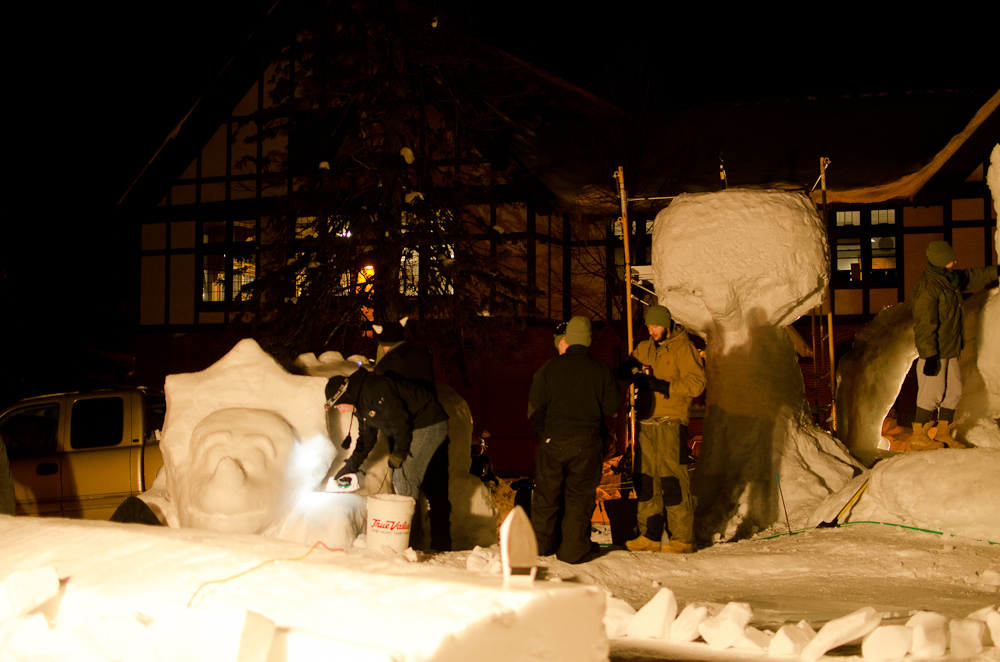
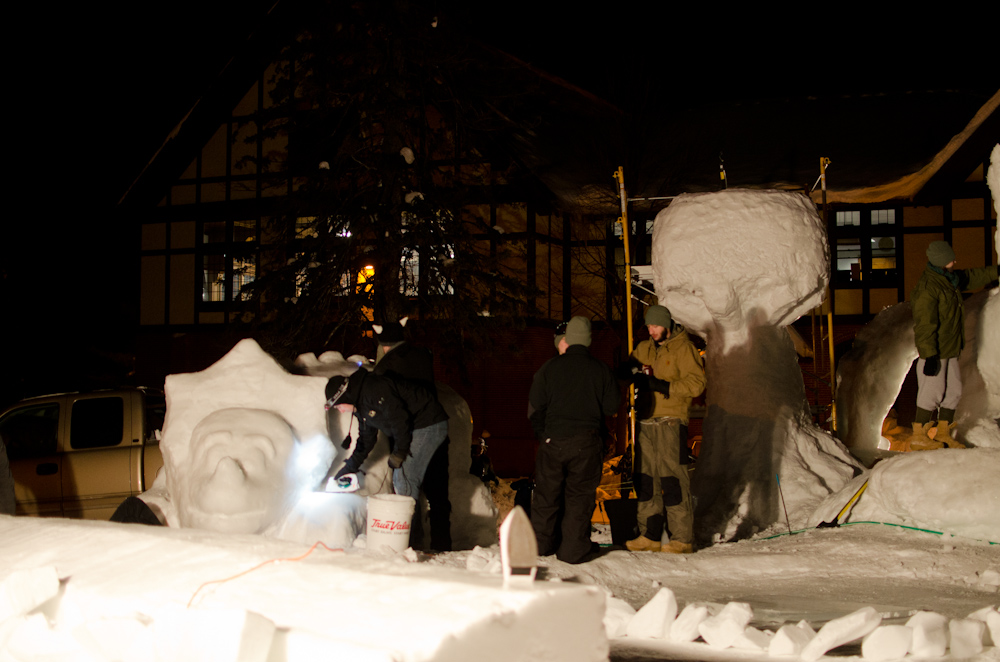
White balance fixed

diff --git a/_site/index.html b/_site/index.html
@@ -38,13 +38,29 @@
   <ul class="post">
     
       <li>
+      	<h2><a href="/2014/02/14/winter-carnival-2014/">Winter Carnival 2014</a></h2>
+      	<p class="meta">February 14, 2014 | <a href="/2014/02/14/winter-carnival-2014/#disqus_thread"></a></p>
+      	<p><img src="http://eoisaacs.github.io/images/2014-02-14-img1.jpg" alt=""></p>
+
+<p><a href="http://www.mtu.edu/carnival/history/">Winter Carnival</a> is legendary at Michigan Tech. Classes are cancelled on Thursday and Friday, and that combined with the all-nighter on Wednesday night and the snow statue contest makes for a crazy four-day weekend.</p>
+
+<p><img src="http://eoisaacs.github.io/images/2014-02-14-img2.jpg" alt=""></p>
+
+<p>Leading up to the all-nighter, I heard a lot of wild stories and rumors of drunken masses and hospitalizations. I had low expectations, but these tales turned out to be pretty accurate. The night started off pretty tame, with mostly statue workers and school employees on campus, but as it got later, campus slowly became saturated with students of varying levels of intoxication. </p>
+
+<p><img src="http://eoisaacs.github.io/images/2014-02-14-img3.jpg" alt=""></p>
+
+      	<p class="end-post">&sect;</p>
+      </li>
+    
+      <li>
       	<h2><a href="/2013/08/23/flown-and-gone/">Flown and Gone</a></h2>
       	<p class="meta">August 23, 2013 | <a href="/2013/08/23/flown-and-gone/#disqus_thread"></a></p>
       	<p>After many bittersweet goodbyes to friends and favorite places, I&#39;m finally on my way to Michigan. My friends, Bury the Moon, wrote a great song about this moment. They probably don&#39;t appreciate me posting this old, impromptu recording but that&#39;s really too bad for them since they have yet to release a newer one.  </p>
 
 <iframe style="border: 0; width: 100%; height: 120px;" src="http://bandcamp.com/EmbeddedPlayer/track=4237824219/size=medium/bgcol=ffffff/linkcol=0687f5/transparent=true/" seamless><a href="http://burythemoon.bandcamp.com/track/flown-and-gone-the-bedroom-sessions">Flown And Gone (The Bedroom Sessions) by Bury The Moon</a></iframe>  
 
-<p>I&#39;m a little nervous but mostly excited to explore and meet new people. I will be very busy for the next few weeks so I&#39;m not sure when my next post will be. It may be brief.</p>
+<p>I&#39;m a little nervous but mostly excited to explore and meet new people. I&#39;m sure I&#39;ll keep busy for the next few weeks.</p>
 
       	<p class="end-post">&sect;</p>
       </li>
@@ -66,25 +82,25 @@
 
 <p><img src="http://eoisaacs.github.io/images/2013-08-22-img3.jpg" alt="Canoeing by moonlight"></p>
 
-<p>The weather was spectacular and the mosquitoes fewer than feared. In addition to canoeing, we ran/hiked short section of the Shoreline Trail and crossed the headwaters of the North Fork of the Willamette River. Someday I will have to come back and run or mountain bike all 22 miles of beautiful singletrack encircling the lake.</p>
+<p>The weather was spectacular and the mosquitoes fewer than feared. In addition to canoeing, we ran/hiked short section of the Shoreline Trail and crossed the headwaters of the North Fork of the Willamette River. Someday I will have to come back and run or mountain bike the spectacular 22-mile trail encircling the lake.</p>
 
       	<p class="end-post">&sect;</p>
       </li>
     
       <li>
-      	<h2><a href="/2013/08/03/the-beginning/">Oregon to Upper Michigan&#58;  An &#40;Expected&#41;  Journey</a></h2>
+      	<h2><a href="/2013/08/03/the-beginning/">Oregon to Upper Michigan</a></h2>
       	<p class="meta">August 3, 2013 | <a href="/2013/08/03/the-beginning/#disqus_thread"></a></p>
       	<p><img src="http://eoisaacs.github.io/images/2013-08-03-img1.jpg" alt="Houghton lift bridge in the Winter"></p>
 
-<p>In a few short weeks I will be traveling to Michigan Technological University for college. It&#39;s hard to think about moving 2000 miles away from home. I&#39;ve lived and gone to school near the same small town for close to 13 years with many of the same friends. As sad as it is to be leaving this, I&#39;m very excited for the opportunity to meet lots of different people and branch out my interests. There is a bit of a cultural difference between Oregon and the Upper Peninsula (U.P.) of Michigan, but I like what I&#39;ve experienced on family vacations and my visit over spring break.</p>
+<p>In a few weeks I will be traveling to Michigan Technological University for college. It&#39;s hard to think about moving 2000 miles away from home. I&#39;ve lived and gone to school near the same small town for close to 13 years with many of the same friends. As sad as it is to be leaving this, I&#39;m very excited for the opportunity to meet lots of different people and branch out my interests. There is a bit of a cultural difference between Oregon and the Upper Peninsula (U.P.) of Michigan, but I like what I&#39;ve experienced on family vacations and my visit over spring break.</p>
 
-<p>At Michigan Tech, I&#39;ll be starting out in General Engineering (basically undecided.) I don&#39;t have a clear idea of which branch I want to move into. Hopefully that will come with time. Academics will certainly be my focus and take up most of my time while I&#39;m there. 8am Calc 2 class here I come...  </p>
+<p>At Michigan Tech, I&#39;ll be starting out in General Engineering (basically undecided.) I don&#39;t have a clear idea of which branch I want to move into. Hopefully that will come with time. Academics will certainly be my focus and take up most of my time while I&#39;m there. 8am Calc 2 class here I come.</p>
 
-<p>If I have time, there will be plenty of other activities to keep me busy. This may be a little bit ambitious, but I plan to participate in intramural sports, competitive mountain biking, running, potentially the student radio station, and have a social life. Something will probably have to go. I hope it isn&#39;t this blog.  </p>
+<p>If I have time, there will be plenty of other activities to keep me busy. This may be a little bit ambitious, but I plan to participate in intramural sports, competitive mountain biking, running, potentially the student radio station, and have a social life. Something will probably have to go.</p>
 
-<p>I will be very busy before I leave, so this may very well be the only post for a while. I will be helping out at my high school XC coach&#39;s running camp and then going on a family camping trip. This means I have to start packing...  </p>
+<p>I will be very busy before I leave, so this may very well be the only post for a while. I will be helping out at my high school XC coach&#39;s running camp and then going on a family camping trip. This means I have to start packing...</p>
 
-<p>I have every intention of keeping this updated approximately weekly. How that will work out, I have no idea. I want to start recording my experiences regularly as well as working on my writing, and this seemed like a  good way to do it. We&#39;ll hope for the best.  </p>
+<p>I have every intention of keeping this updated approximately weekly. How that will work out, I have no idea. I want to start recording my experiences regularly as well as working on my writing, and this seemed like a good way to do it.</p>
 
       	<p class="end-post">&sect;</p>
       </li>
@@ -100,7 +116,16 @@
           
 
             
+            <li>2014</li>
+          
+          
+
+            
+            
+            
+            
             <li>2013</li>
+          
           
           
 
@@ -122,7 +147,22 @@
               
 
                 
+                <li>February</li>
+              
+
+                <li>
+                  <ul>
+                    <li>14 <a href="/2014/02/14/winter-carnival-2014/">Winter Carnival 2014</a></li>
+                  </ul>
+                </li>
+              
+
+                
+                
+                
+                
                 <li>August</li>
+              
               
 
                 <li>
@@ -153,7 +193,7 @@
 
                 <li>
                   <ul>
-                    <li>3 <a href="/2013/08/03/the-beginning/">Oregon to Upper Michigan&#58;  An &#40;Expected&#41;  Journey</a></li>
+                    <li>3 <a href="/2013/08/03/the-beginning/">Oregon to Upper Michigan</a></li>
                   </ul>
                 </li>
               
